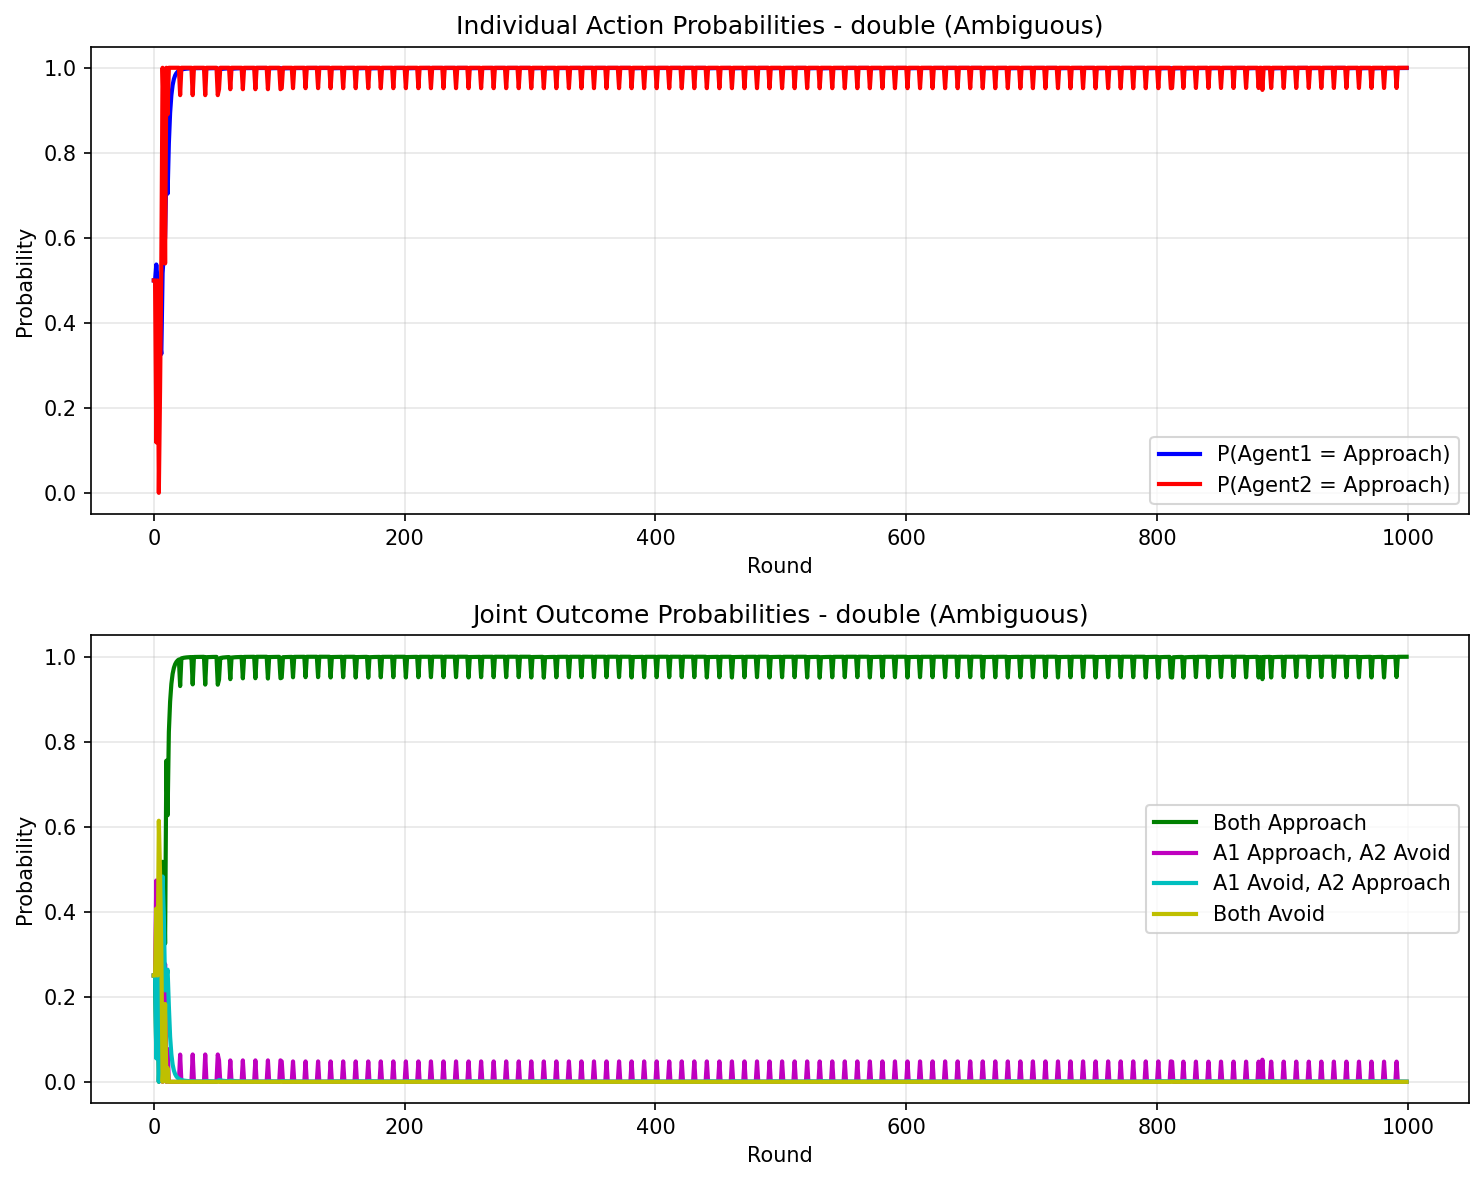
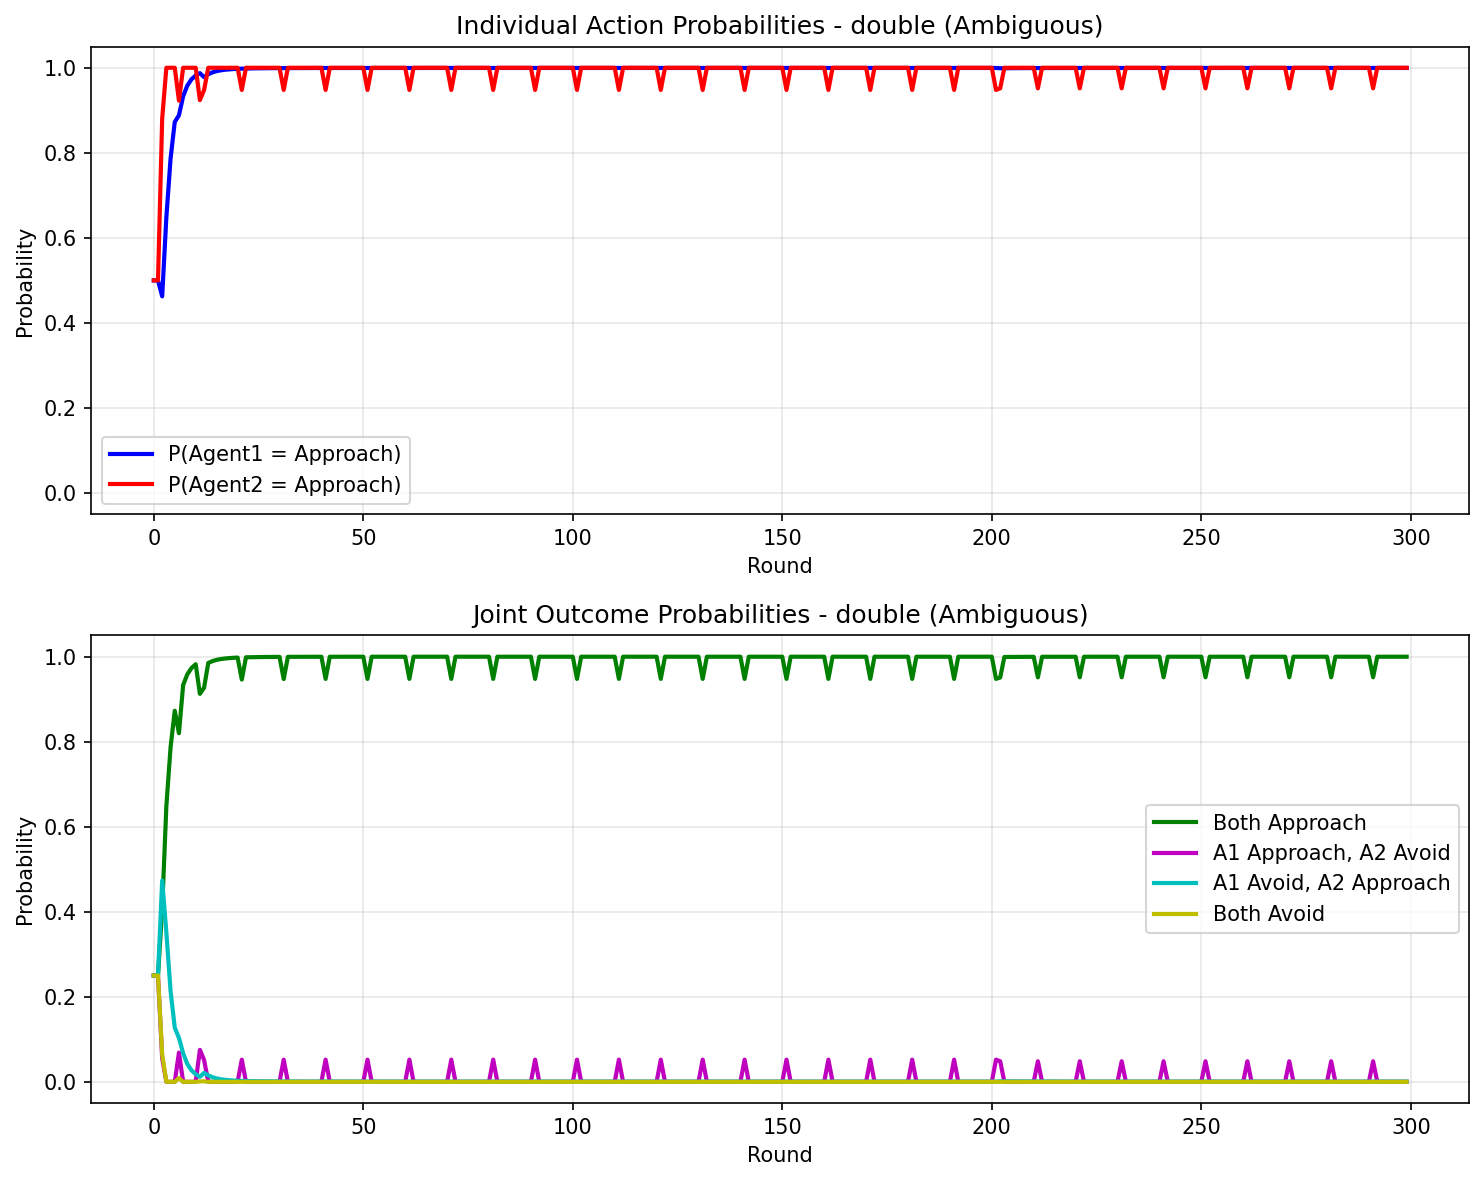
my best committ ever Istg

diff --git a/run_multiple_simulations.py b/run_multiple_simulations.py
@@ -1,0 +1,148 @@
+"""
+Run multiple simulations and generate CSV summary with statistics.
+
+This script runs the ambiguous simulation multiple times and calculates:
+- Mean points collected for each agent
+- Standard deviation of points for each agent
+- Results are saved to a CSV file
+"""
+
+import numpy as np
+import pandas as pd
+from Matrices import get_scenario
+from Nash_Calc import print_game_info
+from AmbiguousQLearning import simulate_ambiguous
+
+# =============================================================================
+# PARAMETERS - Modify these to control the simulation
+# =============================================================================
+
+# Number of simulations to run
+NUM_SIMULATIONS = 100
+
+# Individual learning parameters for Agent 1
+ALPHA1 = 0.8  # Learning rate for Agent1 (0 to 1)
+BETA1 = 5  # Temperature for Agent1 (higher = more exploitation)
+
+# Individual learning parameters for Agent 2
+ALPHA2 = 0.1  # Learning rate for Agent2 (0 to 1)
+BETA2 = 3  # Temperature for Agent2 (higher = more exploitation)
+
+# Trust parameters (0 to 1)
+TRUST1 = 0  # Agent1's trust in Agent2
+TRUST2 = 0.8  # Agent2's trust in Agent1
+
+# Ambiguous situation frequency
+AMBIGUOUS_FREQ = 10  # Ambiguous situation every X rounds (0 = disabled)
+
+# Simulation parameters
+ROUNDS = 900  # Number of interaction rounds
+
+# Scenario selection
+SCENARIO = "double"  # Options: "double", "single", "circular"
+
+# Output CSV file
+OUTPUT_CSV = "simulation_summary.csv"
+
+# =============================================================================
+# RUN MULTIPLE SIMULATIONS
+# =============================================================================
+
+if __name__ == "__main__":
+    print(f"{'='*60}")
+    print(f"RUNNING {NUM_SIMULATIONS} SIMULATIONS")
+    print(f"{'='*60}")
+
+    # Get payoff matrices for the scenario
+    A1, A2 = get_scenario(SCENARIO)
+
+    # Calculate Nash equilibrium (suppress output)
+    print("\nCalculating Nash equilibrium...")
+    p_init, q_init = print_game_info(A1, A2, SCENARIO)
+    # Alternative: skip Nash calculation and use default
+    # p_init = 0.5
+    # q_init = 0.5
+
+    print(f"\nSimulation Parameters:")
+    print(f"  Scenario: {SCENARIO}")
+    print(f"  Rounds per simulation: {ROUNDS}")
+    print(f"  Agent 1: alpha={ALPHA1}, beta={BETA1}, trust={TRUST1}")
+    print(f"  Agent 2: alpha={ALPHA2}, beta={BETA2}, trust={TRUST2}")
+    print(f"  Ambiguous frequency: {AMBIGUOUS_FREQ}")
+
+    # Storage for all simulation results
+    total_points_agent1 = []
+    total_points_agent2 = []
+
+    # Run simulations
+    print(f"\nRunning {NUM_SIMULATIONS} simulations...")
+    for sim in range(NUM_SIMULATIONS):
+        if (sim + 1) % 10 == 0:
+            print(f"  Completed {sim + 1}/{NUM_SIMULATIONS} simulations...")
+
+        # Run simulation
+        result = simulate_ambiguous(
+            A1,
+            A2,
+            p_init,
+            q_init,
+            ALPHA1,
+            BETA1,
+            ALPHA2,
+            BETA2,
+            TRUST1,
+            TRUST2,
+            AMBIGUOUS_FREQ,
+            ROUNDS,
+        )
+
+        # Calculate total points for each agent
+        total_agent1 = np.sum(result["payoff_history1"])
+        total_agent2 = np.sum(result["payoff_history2"])
+
+        total_points_agent1.append(total_agent1)
+        total_points_agent2.append(total_agent2)
+
+    print(f"  Completed {NUM_SIMULATIONS}/{NUM_SIMULATIONS} simulations!")
+
+    # Calculate statistics
+    mean_agent1 = np.mean(total_points_agent1)
+    std_agent1 = np.std(total_points_agent1)
+    mean_agent2 = np.mean(total_points_agent2)
+    std_agent2 = np.std(total_points_agent2)
+
+    # Create summary dataframe
+    summary_data = {
+        "Agent": ["Agent 1", "Agent 2"],
+        "Mean_Points": [mean_agent1, mean_agent2],
+        "Std_Deviation": [std_agent1, std_agent2],
+        "Min_Points": [np.min(total_points_agent1), np.min(total_points_agent2)],
+        "Max_Points": [np.max(total_points_agent1), np.max(total_points_agent2)],
+        "Alpha": [ALPHA1, ALPHA2],
+        "Beta": [BETA1, BETA2],
+        "Trust": [TRUST1, TRUST2],
+    }
+
+    summary_df = pd.DataFrame(summary_data)
+
+    # Save to CSV
+    summary_df.to_csv(OUTPUT_CSV, index=False)
+
+    # Print results
+    print(f"\n{'='*60}")
+    print("SIMULATION RESULTS")
+    print(f"{'='*60}")
+    print(f"\nAgent 1:")
+    print(f"  Mean points: {mean_agent1:.2f}")
+    print(f"  Std deviation: {std_agent1:.2f}")
+    print(f"  Min: {np.min(total_points_agent1):.2f}")
+    print(f"  Max: {np.max(total_points_agent1):.2f}")
+
+    print(f"\nAgent 2:")
+    print(f"  Mean points: {mean_agent2:.2f}")
+    print(f"  Std deviation: {std_agent2:.2f}")
+    print(f"  Min: {np.min(total_points_agent2):.2f}")
+    print(f"  Max: {np.max(total_points_agent2):.2f}")
+
+    print(f"\nResults saved to: {OUTPUT_CSV}")
+    print(f"\n{'='*60}")

diff --git a/main_ambiguous.py b/main_ambiguous.py
@@ -24,14 +24,14 @@ BETA1 = 3  # Temperature for Agent1 (higher = more exploitation)
 
 # Individual learning parameters for Agent 2
 ALPHA2 = 0.8  # Learning rate for Agent2 (0 to 1) - how quickly Agent2 learns
-BETA2 = 5.0  # Temperature for Agent2 (higher = more exploitation)
+BETA2 = 5  # Temperature for Agent2 (higher = more exploitation)
 
 # Trust parameters (0 to 1)
 # Trust determines how agents interpret ambiguous situations:
 #   1.0 = Full trust - always assume the other is being friendly (Approach)
 #   0.5 = Neutral - 50/50 interpretation
 #   0.0 = No trust - always assume the other is being hostile (Avoid)
-TRUST1 = 0.7  # Agent1's trust in Agent2
+TRUST1 = 1  # Agent1's trust in Agent2
 TRUST2 = 0  # Agent2's trust in Agent1
 
 # Ambiguous situation frequency
@@ -40,7 +40,7 @@ TRUST2 = 0  # Agent2's trust in Agent1
 AMBIGUOUS_FREQ = 10  # Ambiguous situation every X rounds (0 = disabled)
 
 # Simulation parameters
-ROUNDS = 1000  # Number of interaction rounds
+ROUNDS = 300  # Number of interaction rounds
 
 # Scenario selection
 # Options: "double", "single", "circular"

diff --git a/main.py b/main.py
@@ -18,10 +18,10 @@ from Plotting import plot_probabilities
 
 # Learningparameters
 ALPHA = 0.5  # Learning rate (0 to 1) (0.1 for normali-ish, deterministic)
-BETA = 2.5  # Softmax temperature (higher = more exploitation) (3 more normal-ish, deterministic)
+BETA = 1  # Softmax temperature (higher = more exploitation) (3 more normal-ish, deterministic)
 
 # Simulation parameters
-ROUNDS = 500  # Number of interaction rounds
+ROUNDS = 200  # Number of interaction rounds
 
 # Scenario selection
 # Options: "double", "single", "circular"
@@ -46,7 +46,7 @@ if __name__ == "__main__":
     p_init, q_init = print_game_info(A1, A2, SCENARIO)
     # if you want to skip the nash calc
     p_init = 0.5
-    q_init = 0
+    q_init = 0.5
 
     print(f"\nSimulation Parameters:")
     print(f"  Alpha (learning rate): {ALPHA}")
